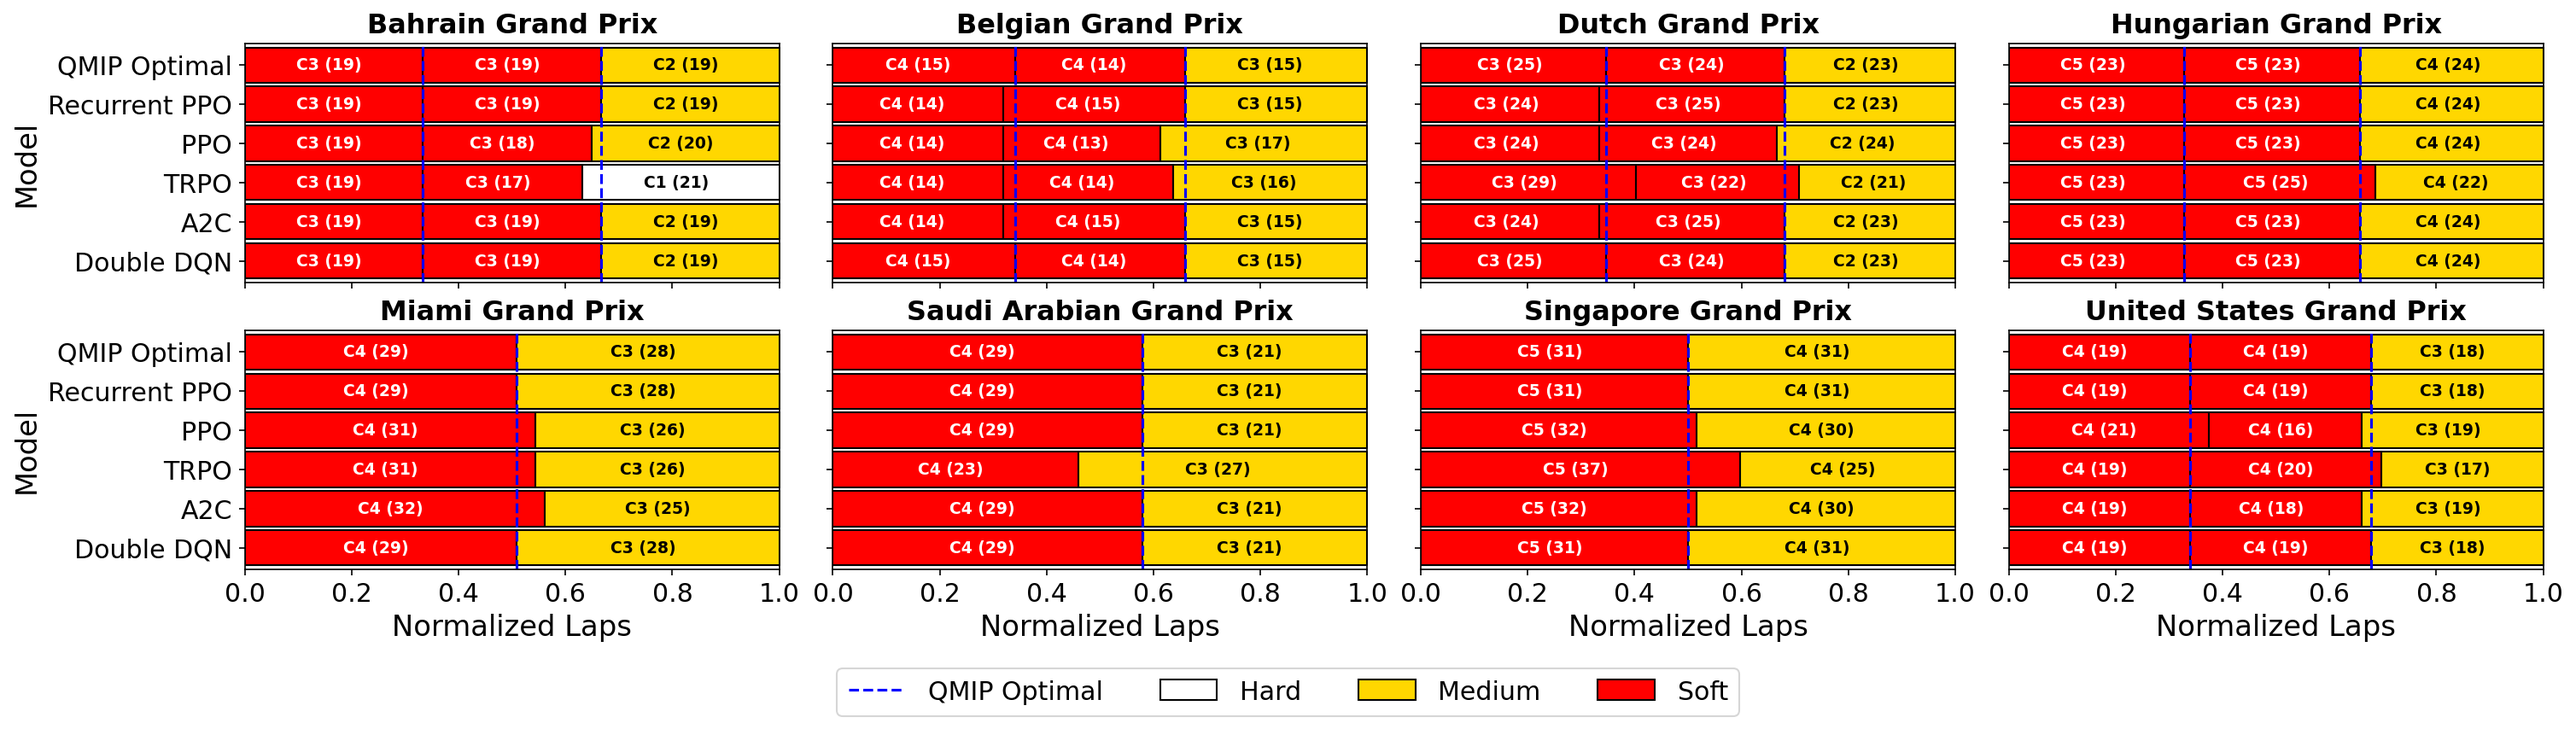
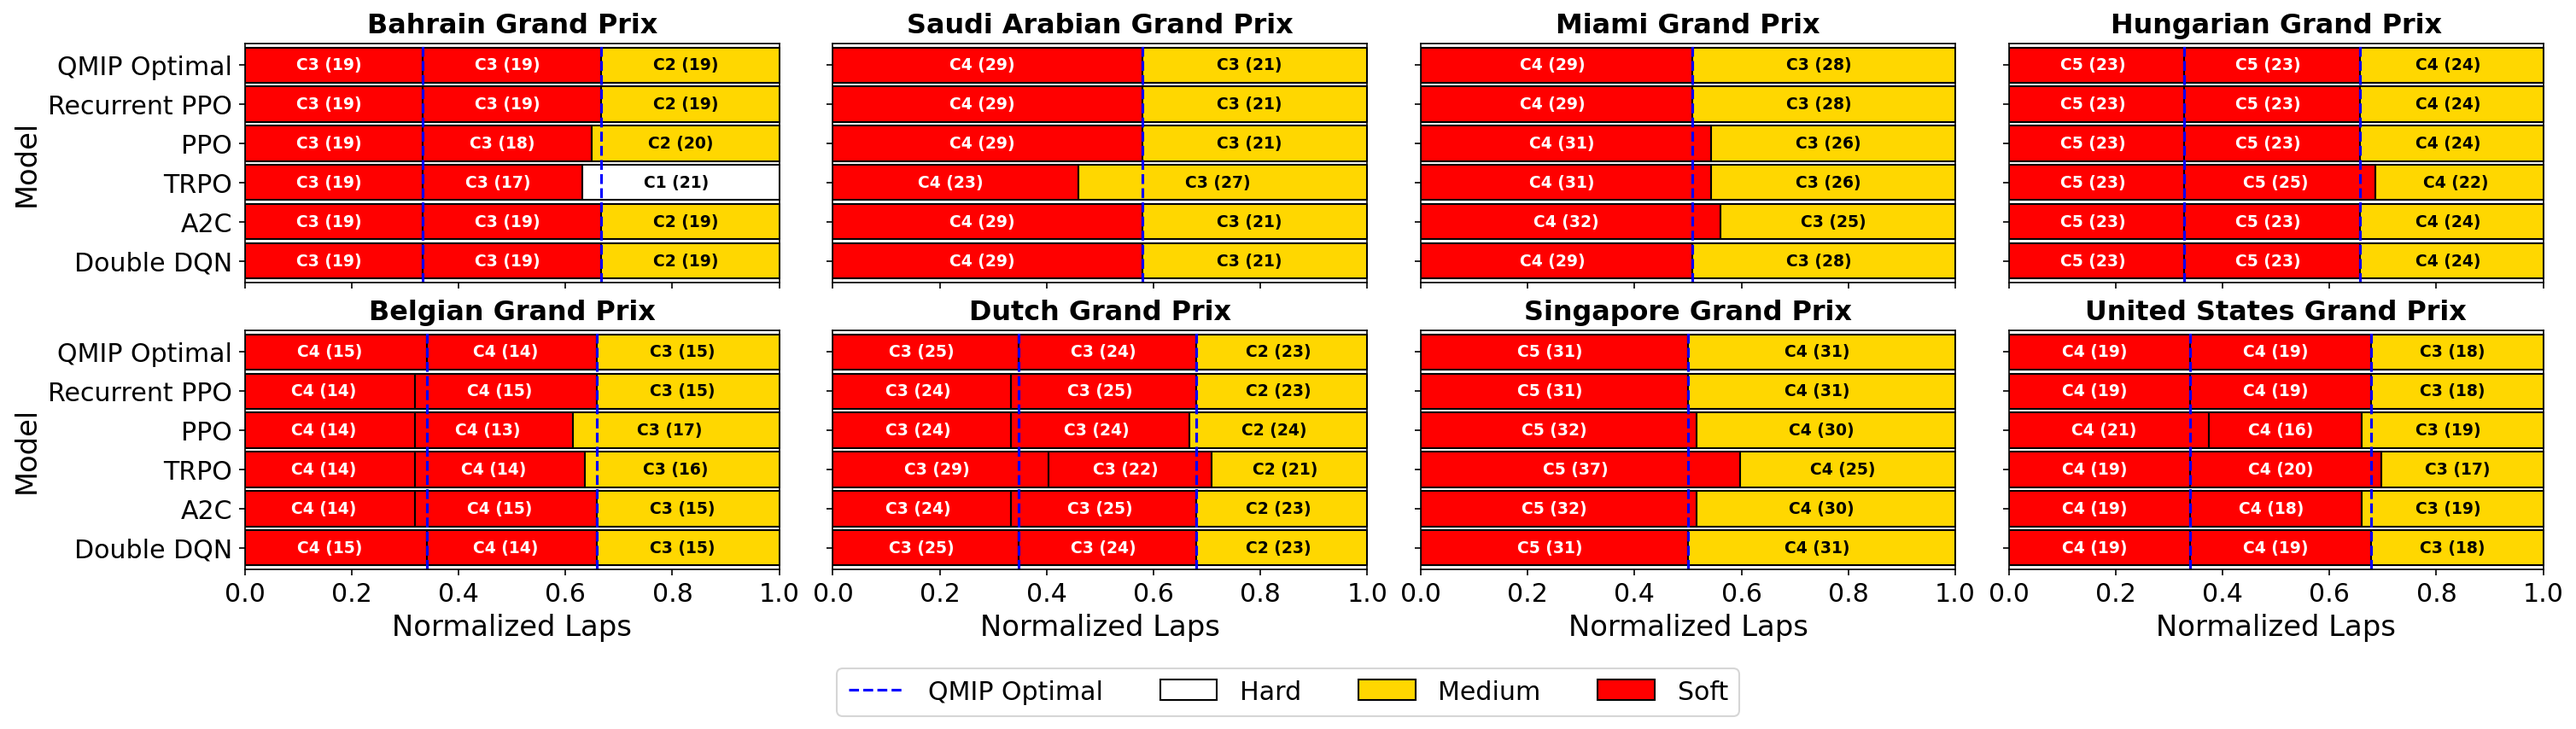
Fig. 5 (2x4): panels in the GP order of Figs. 6-7
Same plans and identical Table N.1.

diff --git a/scripts/plot_fig5_stints_one_driver.py b/scripts/plot_fig5_stints_one_driver.py
@@ -147,6 +147,12 @@ def main():
     parser.add_argument('--output', default='figs/figure_5.png')
     parser.add_argument('--models-dir', default=ONE_DRIVER_DIR)
     args = parser.parse_args()
+    # 2026-10-21: in the 2x4 manuscript layout, panels follow the GP order of Figs. 6-7
+    if os.environ.get('F1_FIG5_GRID') == '2x4':
+        order = ['Bahrain', 'Saudi Arabian', 'Miami', 'Hungarian', 'Belgian', 'Dutch', 'Singapore', 'United States']
+        rank = lambda gp: next((i for i, o in enumerate(order) if gp.startswith(o)), len(order))
+        items = sorted(SELECTED_GP.items(), key=lambda kv: rank(kv[0]))
+        SELECTED_GP.clear(); SELECTED_GP.update(items)
 
     loader = ModelLoader()
     data_by_circuit = []
